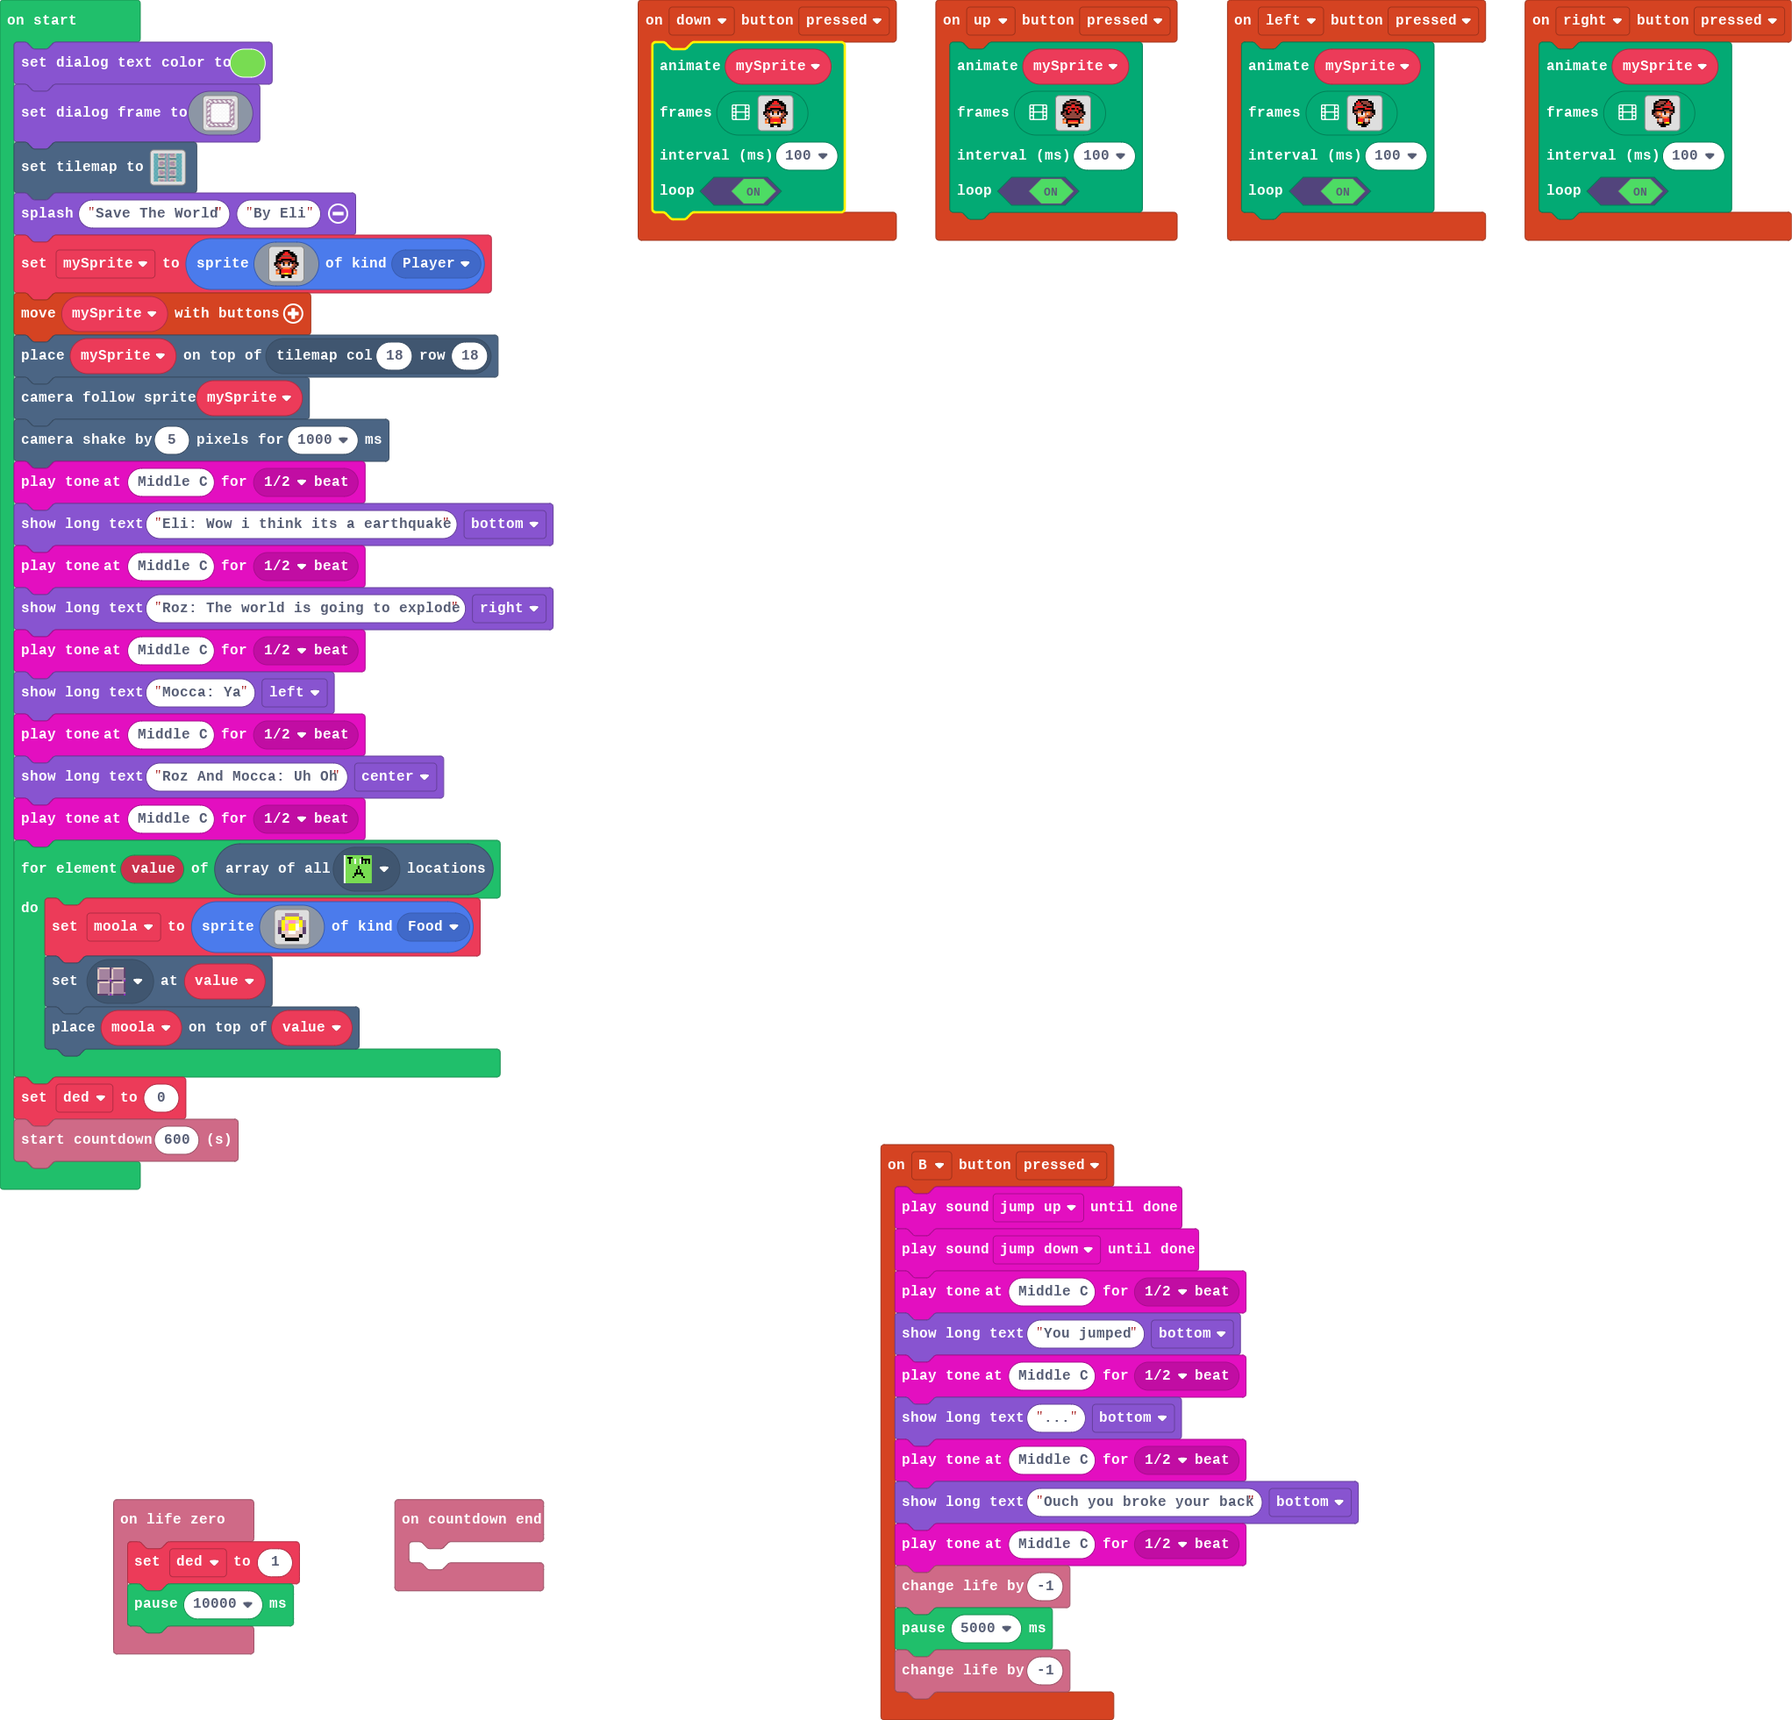
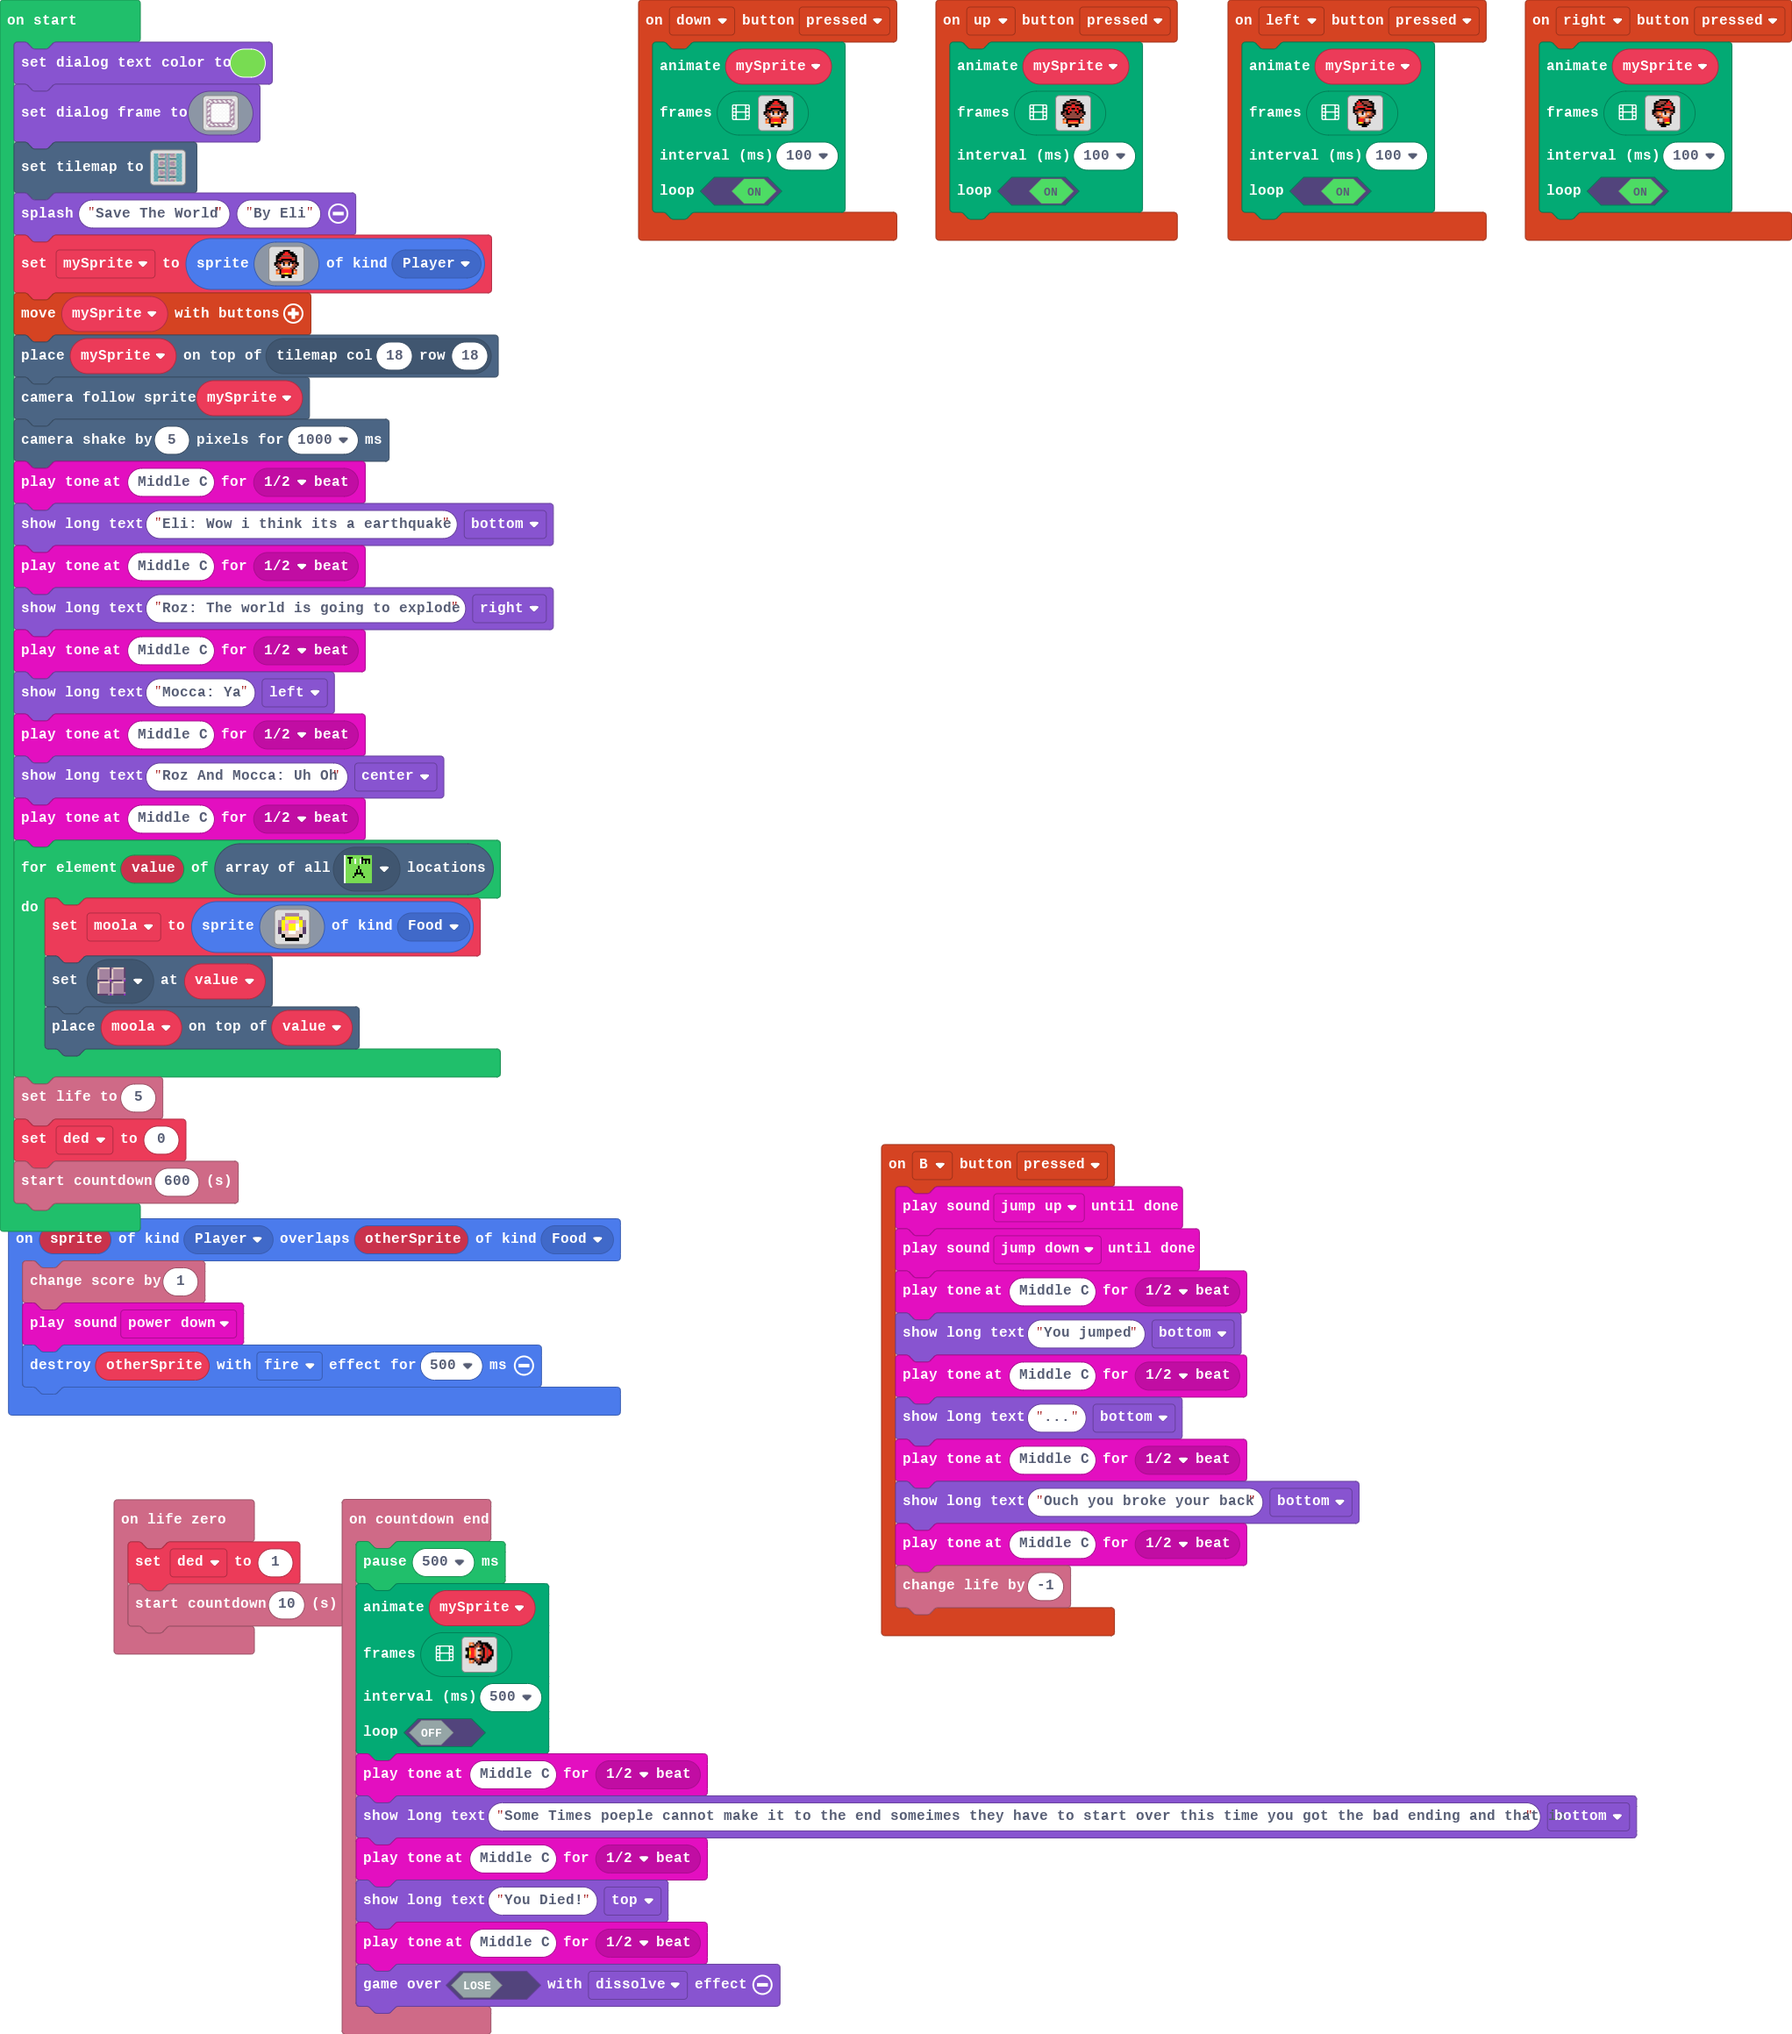
Update main.blocks, main.ts, images.g.jres, images.g.ts, tilemap.g.jres, tilemap.g.ts

Changed region(s): [[0.0, 0.0, 0.9251, 1.0], [0.3392, 0.0, 1.0, 0.1555]]

diff --git a/tilemap.g.ts b/tilemap.g.ts
@@ -4,11 +4,13 @@ namespace myTiles {
     export const transparency16 = image.ofBuffer(hex``);
     //% fixedInstance jres blockIdentity=images._tile
     export const tile1 = image.ofBuffer(hex``);
+    //% fixedInstance jres blockIdentity=images._tile
+    export const tile2 = image.ofBuffer(hex``);
 
     helpers._registerFactory("tilemap", function(name: string) {
         switch(helpers.stringTrim(name)) {
             case "level1":
-            case "level1":return tiles.createTilemap(hex`1900190002020202050404040404020101020404040404050202020202020202020504040404040201010204040404060502020202020202020205060404040502010102050404040405020202020202020202050505050505020101020505050505050202020202020202020303030303030201010203030303030302020202020202020203030303030302010102030303030303020202020202020202050505050505020101020505050505050202020202020202020504040404050201010205040404060502020202020202020205040404040402010102040404040405020202020202020202050404040404020101020404040404050202020202020202020504040406050201010205040404040502020202020202020205050505050502010102050505050505020202020202020202030303030303020101020303030303030202020202020202020303030303030201010203030303030302020202020202020205050505050502010102050505050505020202020202020202050404040605020101020504040404050202020202020202020504040404040201010204040404040502020202020202020205040404040402010102040404040405020202020202020202050404040405020101020504040404050202020202020202020505050505050201010205050505050502020202020202020203030303030302010102030303030303020202020202020202030303030303020101020303030303030202020202020202020505050505050201010205050505050502020202020202020205060404040502010102050404040405020202020202020202050404040404020101020404040406050202020202`, img`
+            case "level1":return tiles.createTilemap(hex`1900190002020202050404040404020107020404040404050202020202020202020504040404040201010204040404060502020202020202020205060404040502010102050404040405020202020202020202050505050505020101020505050505050202020202020202020303030303030201010203030303030302020202020202020203030303030302010102030303030303020202020202020202050505050505020101020505050505050202020202020202020504040404050201010205040404060502020202020202020205040404040402010102040404040405020202020202020202050404040404020101020404040404050202020202020202020504040406050201010205040404040502020202020202020205050505050502010102050505050505020202020202020202030303030303020101020303030303030202020202020202020303030303030201010203030303030302020202020202020205050505050502010102050505050505020202020202020202050404040605020101020504040404050202020202020202020504040404040201010204040404040502020202020202020205040404040402010102040404040405020202020202020202050404040405020101020504040404050202020202020202020505050505050201010205050505050502020202020202020203030303030302010102030303030303020202020202020202030303030303020101020303030303030202020202020202020505050505050201010205050505050502020202020202020205060404040502010102050404040405020202020202020202050404040404020101020404040406050202020202`, img`
 ....2..............2.....
 ....2..............2.....
 ....2....2....2....2.....
@@ -34,7 +36,7 @@ namespace myTiles {
 ....222222....222222.....
 ....2....2....2....2.....
 ....2..............2.....
-`, [myTiles.transparency16,sprites.vehicle.roadVertical,sprites.castle.tileDarkGrass2,sprites.dungeon.greenOuterNorth0,sprites.dungeon.floorDark0,sprites.dungeon.floorLight2,myTiles.tile1], TileScale.Sixteen);
+`, [myTiles.transparency16,sprites.vehicle.roadVertical,sprites.castle.tileDarkGrass2,sprites.dungeon.greenOuterNorth0,sprites.dungeon.floorDark0,sprites.dungeon.floorLight2,myTiles.tile1,myTiles.tile2], TileScale.Sixteen);
         }
         return null;
     })
@@ -44,6 +46,8 @@ namespace myTiles {
             case "transparency16":return transparency16;
             case "myTile":
             case "tile1":return tile1;
+            case "myTile0":
+            case "tile2":return tile2;
         }
         return null;
     })

diff --git a/main.ts b/main.ts
@@ -85,8 +85,6 @@ controller.B.onEvent(ControllerButtonEvent.Pressed, function () {
     game.showLongText("Ouch you broke your back", DialogLayout.Bottom)
     music.playTone(262, music.beat(BeatFraction.Half))
     info.changeLifeBy(-1)
-    pause(5000)
-    info.changeLifeBy(-1)
 })
 controller.left.onEvent(ControllerButtonEvent.Pressed, function () {
     animation.runImageAnimation(
@@ -165,7 +163,70 @@ controller.left.onEvent(ControllerButtonEvent.Pressed, function () {
     )
 })
 info.onCountdownEnd(function () {
-	
+    pause(500)
+    animation.runImageAnimation(
+    mySprite,
+    [img`
+        . . . . . . . f f . . . . . . . 
+        . . 4 4 e . f e f f f f f . . . 
+        . . 4 d 4 f e e e f e f f f . . 
+        . . f f f e e 4 f f 2 e f f f . 
+        f f 4 2 2 e d 1 b f f 2 e f f . 
+        f f 4 2 2 4 d f f e f 2 e 2 f f 
+        . f 5 2 2 4 d d 4 e f 2 e 2 2 f 
+        . f 5 2 2 4 d d 4 e f 2 e 2 2 f 
+        f f 4 2 2 4 d f f e f 2 e 2 f f 
+        f f 4 2 2 e d 1 b f f 2 e f f . 
+        . . f f f e e 4 f f 2 e f f f . 
+        . . 4 d 4 f e e e f e e f f . . 
+        . . 4 4 e . f e f f f f f . . . 
+        . . . . . . . f f . . . . . . . 
+        . . . . . . . . . . . . . . . . 
+        . . . . . . . . . . . . . . . . 
+        `,img`
+        . . . . . . . . . . . . . . . . 
+        . . . . . . . f f . . . . . . . 
+        . . 4 4 e . f e f f f f f . . . 
+        . . 4 d 4 f e e e f e f f f . . 
+        . . f f f e e 4 f f 2 e f f f . 
+        f f 4 2 2 e d 1 b f f 2 e f f . 
+        f f 4 2 2 4 d f f e f 2 e 2 f f 
+        . f 5 2 2 4 d d 4 e f 2 e 2 2 f 
+        . f 5 2 2 4 d d 4 e f 2 e 2 2 f 
+        f f 4 2 2 4 d f f e f 2 e 2 f f 
+        f f 4 2 2 e d 1 b f f 2 e f f . 
+        . . f f f e e 4 f f 2 e f f f . 
+        . . 4 d 4 f e e e f e e f f . . 
+        . . 4 4 e . f e f f f f f . . . 
+        . . . . . . . f f . . . . . . . 
+        . . . . . . . . . . . . . . . . 
+        `,img`
+        . . . . . . . . . . . . . . . . 
+        . . . . . . . . . . . . . . . . 
+        . . . . . . . f f . . . . . . . 
+        . . 4 4 e . f e f f f f f . . . 
+        . . 4 d 4 f e e e f e f f f . . 
+        . . f f f e e 4 f f 2 e f f f . 
+        f f 4 2 2 e d 1 b f f 2 e f f . 
+        f f 4 2 2 4 d f f e f 2 e 2 f f 
+        . f 5 2 2 4 d d 4 e f 2 e 2 2 f 
+        . f 5 2 2 4 d d 4 e f 2 e 2 2 f 
+        f f 4 2 2 4 d f f e f 2 e 2 f f 
+        f f 4 2 2 e d 1 b f f 2 e f f . 
+        . . f f f e e 4 f f 2 e f f f . 
+        . . 4 d 4 f e e e f e e f f . . 
+        . . 4 4 e . f e f f f f f . . . 
+        . . . . . . . f f . . . . . . . 
+        `],
+    500,
+    false
+    )
+    music.playTone(262, music.beat(BeatFraction.Half))
+    game.showLongText("Some Times poeple cannot make it to the end someimes they have to start over this time you got the bad ending and that is", DialogLayout.Bottom)
+    music.playTone(262, music.beat(BeatFraction.Half))
+    game.showLongText("You Died!", DialogLayout.Top)
+    music.playTone(262, music.beat(BeatFraction.Half))
+    game.over(false, effects.dissolve)
 })
 controller.right.onEvent(ControllerButtonEvent.Pressed, function () {
     animation.runImageAnimation(
@@ -321,7 +382,12 @@ controller.down.onEvent(ControllerButtonEvent.Pressed, function () {
 })
 info.onLifeZero(function () {
     ded = 1
-    pause(10000)
+    info.startCountdown(10)
+})
+sprites.onOverlap(SpriteKind.Player, SpriteKind.Food, function (sprite, otherSprite) {
+    info.changeScoreBy(1)
+    music.powerDown.play()
+    otherSprite.destroy(effects.fire, 500)
 })
 let ded = 0
 let moola: Sprite = null
@@ -400,5 +466,6 @@ for (let value of tiles.getTilesByType(assets.tile`myTile`)) {
     tiles.setTileAt(value, sprites.dungeon.floorDark0)
     tiles.placeOnTile(moola, value)
 }
+info.setLife(5)
 ded = 0
 info.startCountdown(600)

diff --git a/images.g.ts b/images.g.ts
@@ -339,6 +339,58 @@ c d d 1 1 d d c
 . . . . f f f f f f f f f f . . 
 . . . . . f f . . . f f f . . . 
 `];
+            case "anim5":return [img`
+. . . . . . . f f . . . . . . . 
+. . 4 4 e . f e f f f f f . . . 
+. . 4 d 4 f e e e f e f f f . . 
+. . f f f e e 4 f f 2 e f f f . 
+f f 4 2 2 e d 1 b f f 2 e f f . 
+f f 4 2 2 4 d f f e f 2 e 2 f f 
+. f 5 2 2 4 d d 4 e f 2 e 2 2 f 
+. f 5 2 2 4 d d 4 e f 2 e 2 2 f 
+f f 4 2 2 4 d f f e f 2 e 2 f f 
+f f 4 2 2 e d 1 b f f 2 e f f . 
+. . f f f e e 4 f f 2 e f f f . 
+. . 4 d 4 f e e e f e e f f . . 
+. . 4 4 e . f e f f f f f . . . 
+. . . . . . . f f . . . . . . . 
+. . . . . . . . . . . . . . . . 
+. . . . . . . . . . . . . . . . 
+`, img`
+. . . . . . . . . . . . . . . . 
+. . . . . . . f f . . . . . . . 
+. . 4 4 e . f e f f f f f . . . 
+. . 4 d 4 f e e e f e f f f . . 
+. . f f f e e 4 f f 2 e f f f . 
+f f 4 2 2 e d 1 b f f 2 e f f . 
+f f 4 2 2 4 d f f e f 2 e 2 f f 
+. f 5 2 2 4 d d 4 e f 2 e 2 2 f 
+. f 5 2 2 4 d d 4 e f 2 e 2 2 f 
+f f 4 2 2 4 d f f e f 2 e 2 f f 
+f f 4 2 2 e d 1 b f f 2 e f f . 
+. . f f f e e 4 f f 2 e f f f . 
+. . 4 d 4 f e e e f e e f f . . 
+. . 4 4 e . f e f f f f f . . . 
+. . . . . . . f f . . . . . . . 
+. . . . . . . . . . . . . . . . 
+`, img`
+. . . . . . . . . . . . . . . . 
+. . . . . . . . . . . . . . . . 
+. . . . . . . f f . . . . . . . 
+. . 4 4 e . f e f f f f f . . . 
+. . 4 d 4 f e e e f e f f f . . 
+. . f f f e e 4 f f 2 e f f f . 
+f f 4 2 2 e d 1 b f f 2 e f f . 
+f f 4 2 2 4 d f f e f 2 e 2 f f 
+. f 5 2 2 4 d d 4 e f 2 e 2 2 f 
+. f 5 2 2 4 d d 4 e f 2 e 2 2 f 
+f f 4 2 2 4 d f f e f 2 e 2 f f 
+f f 4 2 2 e d 1 b f f 2 e f f . 
+. . f f f e e 4 f f 2 e f f f . 
+. . 4 d 4 f e e e f e e f f . . 
+. . 4 4 e . f e f f f f f . . . 
+. . . . . . . f f . . . . . . . 
+`];
         }
         return null;
     })
